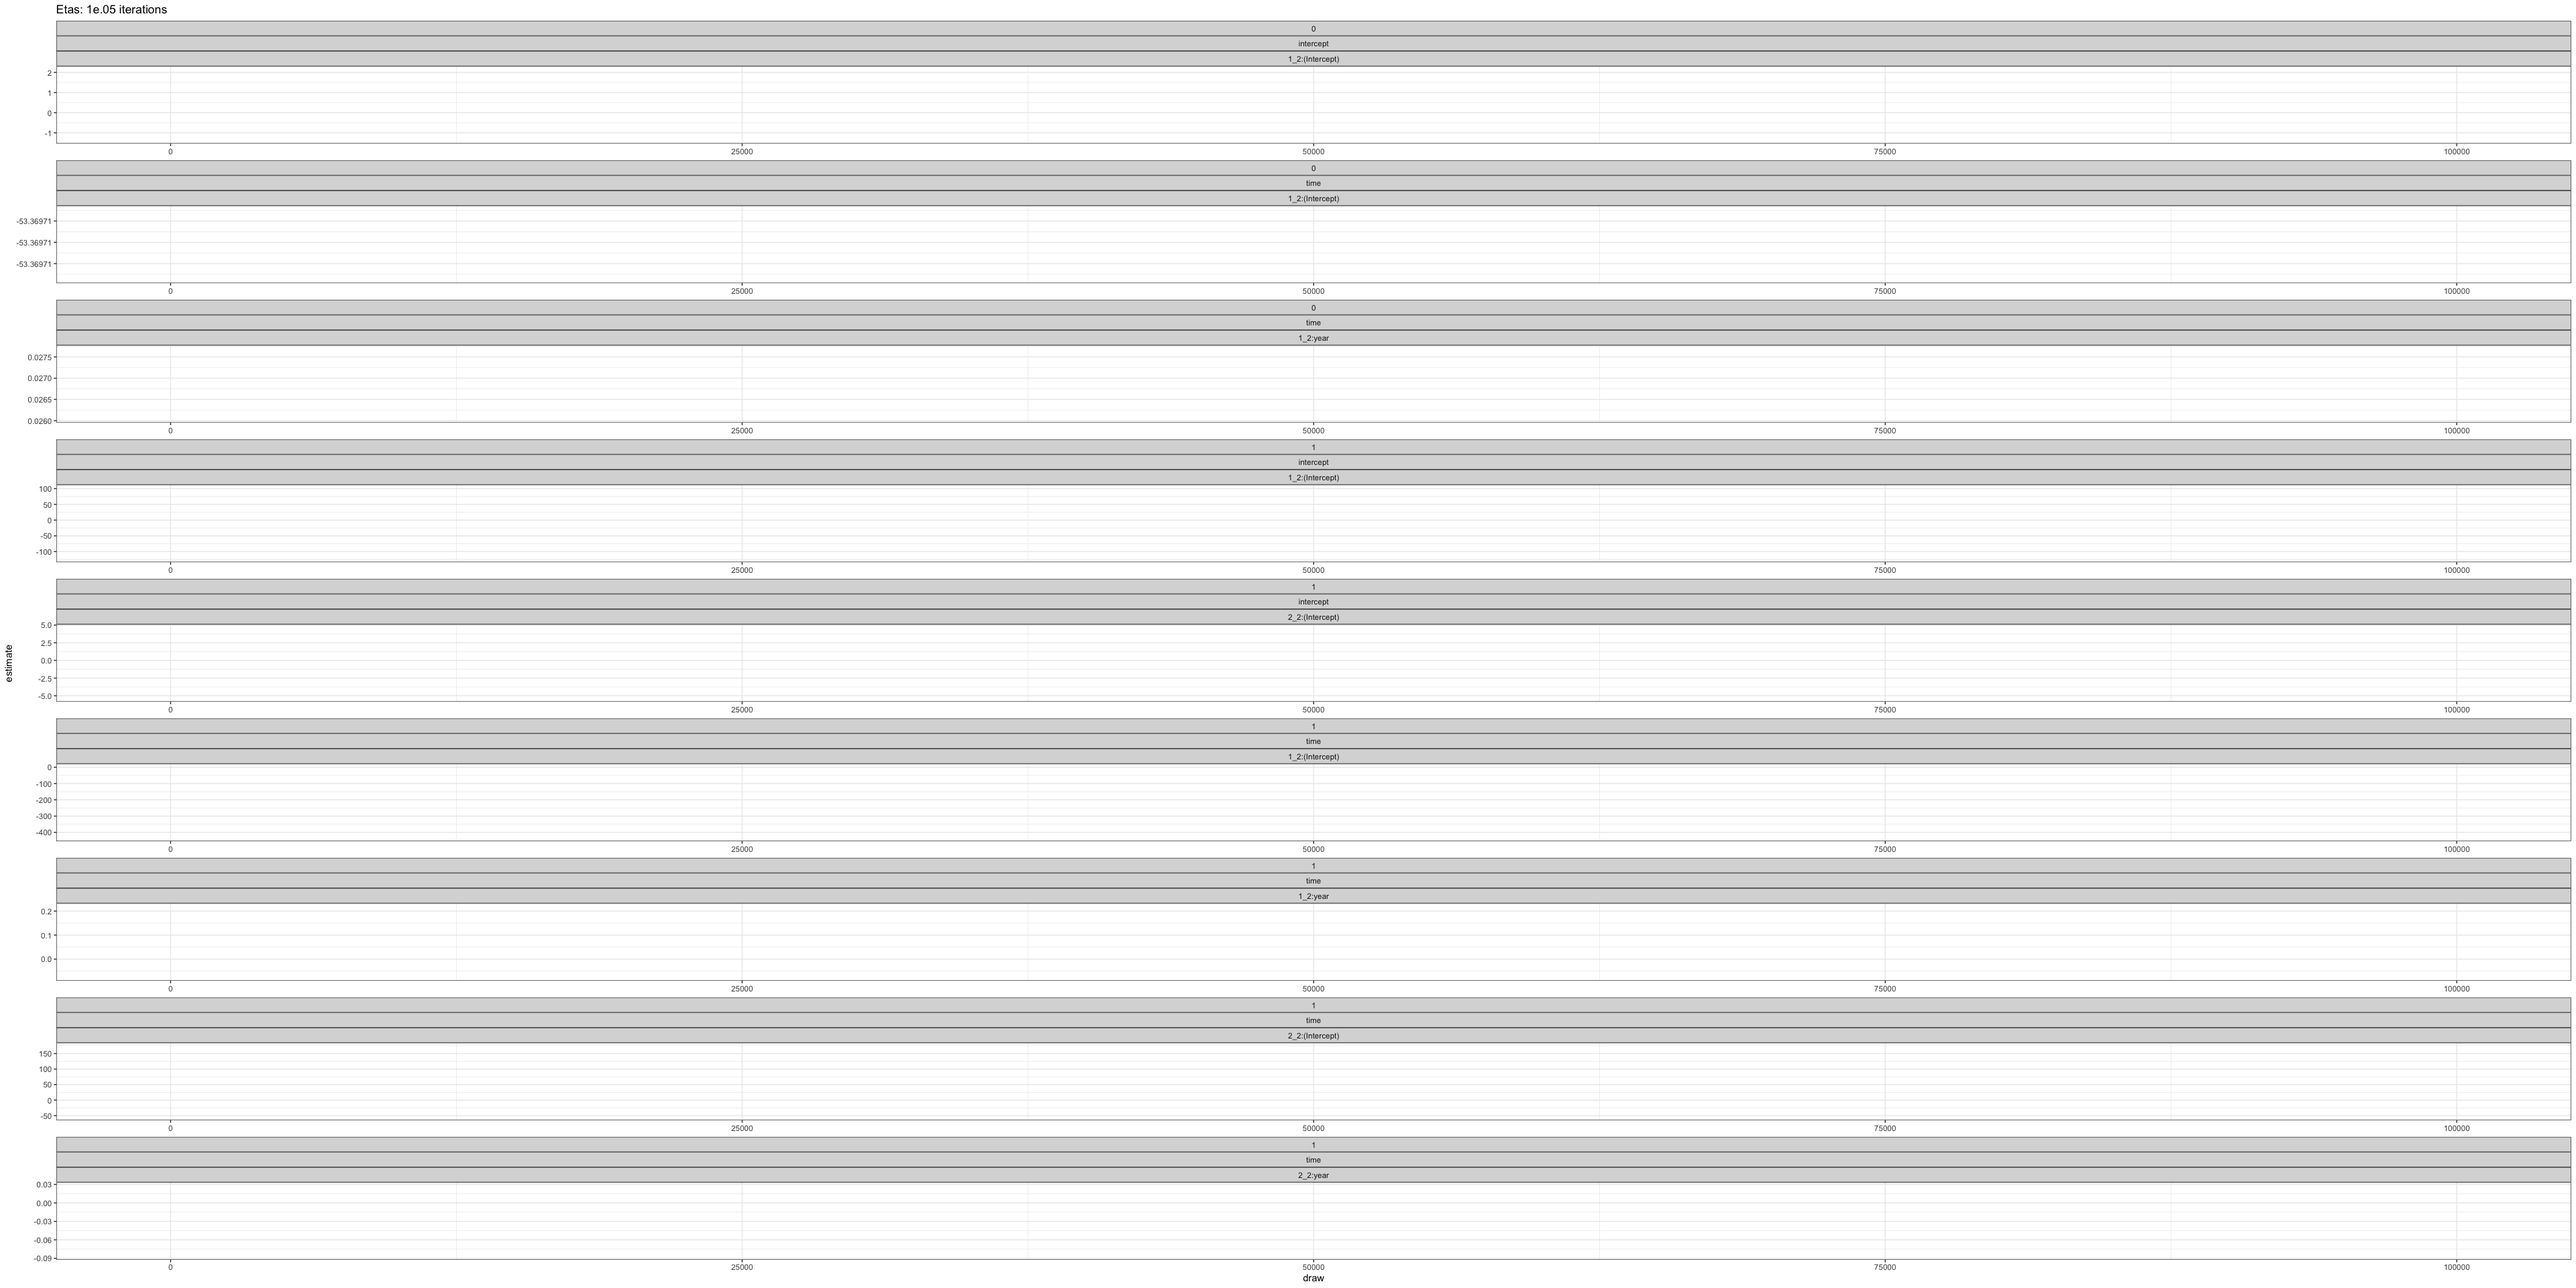
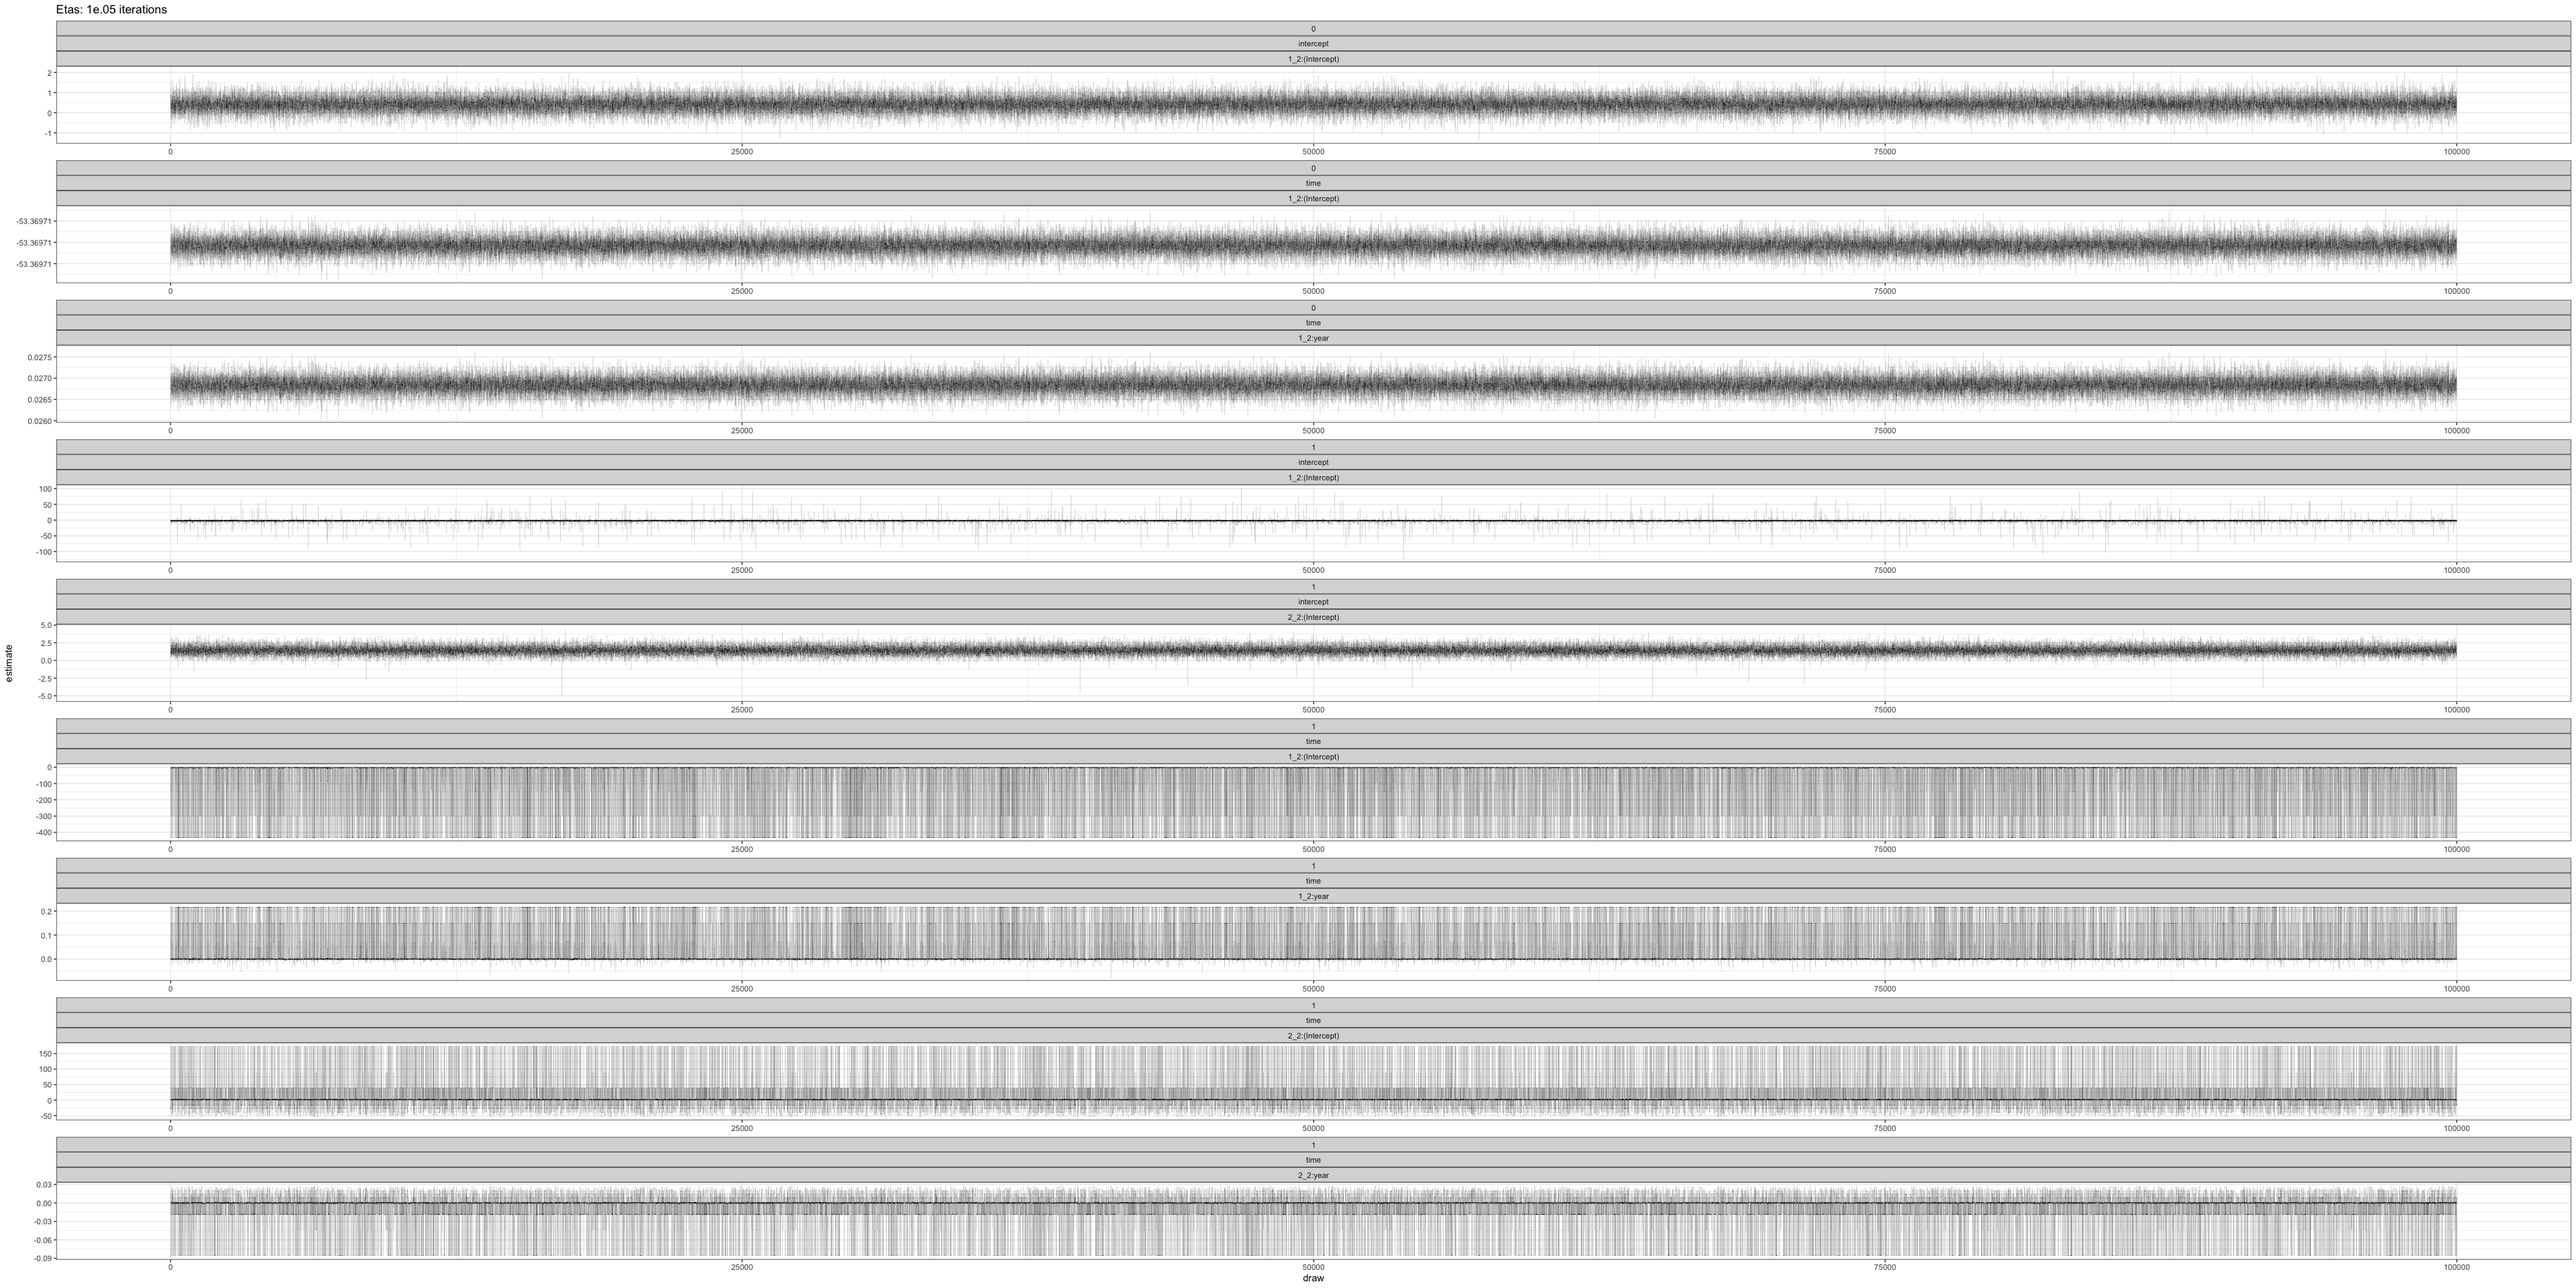
fixing etas 100k plot

diff --git a/analysis/reports/summary.md b/analysis/reports/summary.md
@@ -56,8 +56,6 @@ I have plotted etas for models with 2 topics, 0 or 1 changepoint, and `~1` or `~
 
 The facet strips are: number of changepoints; formula; parameter being estimated.
 
-    ## Warning: NAs introduced by coercion
-
 #### Etas 100 iterations
 
 ![](summary_files/figure-markdown_github/etas%20100-1.png)
@@ -67,8 +65,6 @@ The facet strips are: number of changepoints; formula; parameter being estimated
 ![](summary_files/figure-markdown_github/etas%2010k-1.png)
 
 #### Etas 100,000 iterations
-
-    ## Warning: Removed 900000 rows containing missing values (geom_path).
 
 ![](summary_files/figure-markdown_github/etas%20100k-1.png)
 
